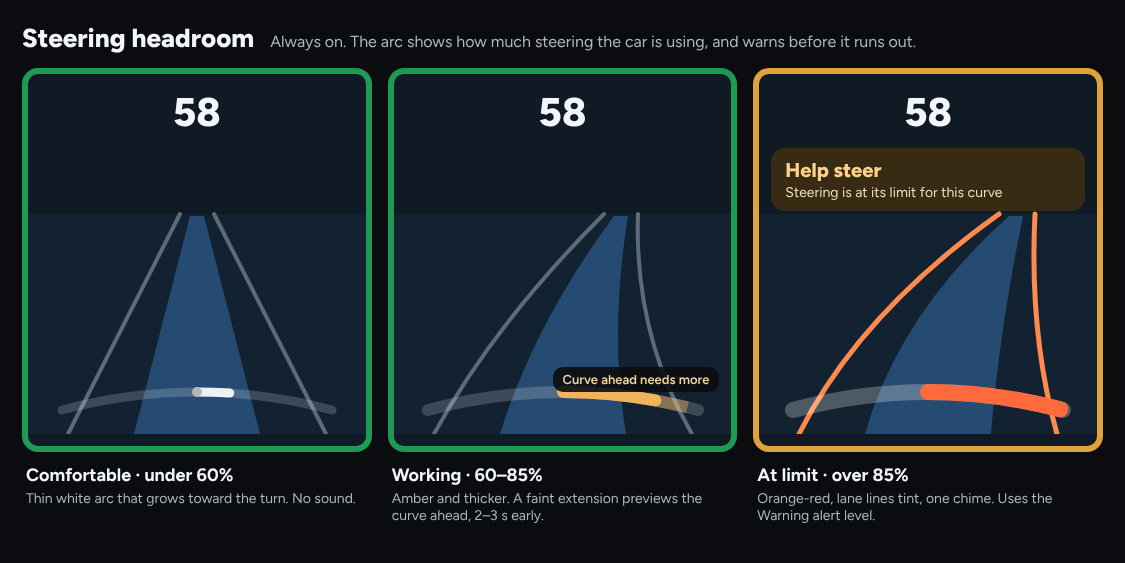
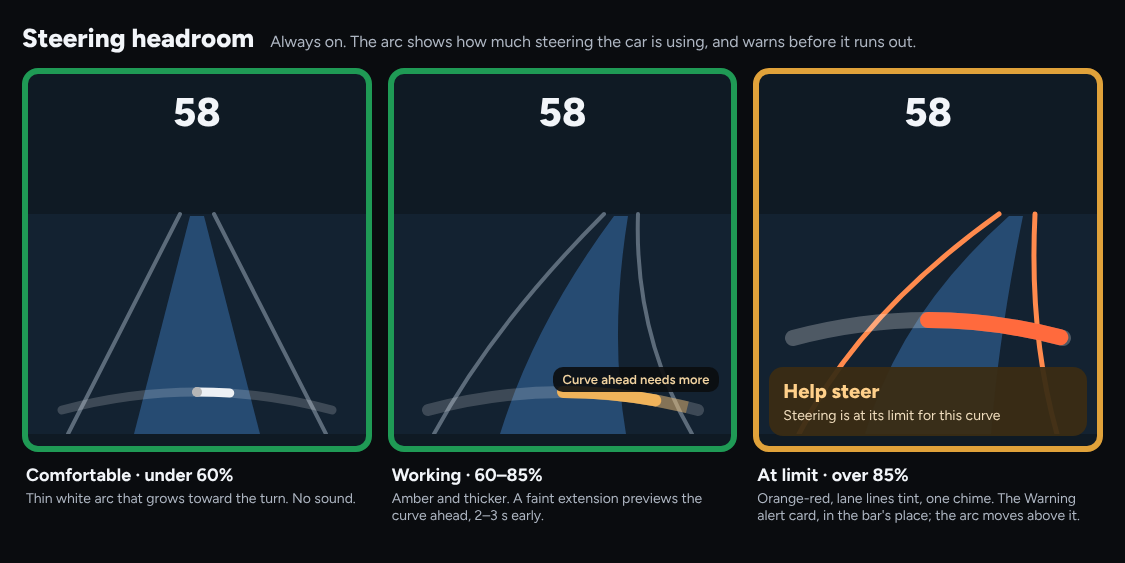
Help steer: the bottom Warning alert card, like every other alert
Help steer drew as its own banner near the top, while StarPilot's alerts
take the bar's place at the bottom. It now draws with the same Warning
card and box, the bar and chips hide under it as for other alerts, and
the headroom arc moves above the card so it stays visible. Mock first:
steeringheadroom.html's at-limit panel.

Claude-Session: https://claude.ai/code/session_01R4pPc2hcx88Dbjjec1p8WC

Changed region(s): [[0.6844, 0.5435, 0.9644, 0.7851], [0.6844, 0.2416, 0.9644, 0.3925], [0.6533, 0.8757, 0.9644, 0.9361]]

diff --git a/selfdrive/ui/tandem/design/steeringheadroom.html b/selfdrive/ui/tandem/design/steeringheadroom.html
@@ -64,18 +64,18 @@ a{color:#7DBBF9}a:hover{color:#A9D3FB}
           <path d="M240 140 Q100 240 40 360" stroke="#FF8A4D" stroke-width="5" fill="none" stroke-linecap="round"></path>
           <path d="M276 140 Q270 260 298 360" stroke="#FF8A4D" stroke-width="5" fill="none" stroke-linecap="round"></path>
           <path d="M250 142 L264 142 Q240 260 232 360 L106 360 Q140 240 250 142 Z" fill="#3A73B3" fill-opacity="0.5"></path>
-          <path d="M34 336 Q169 300 304 336" stroke="#FFFFFF" stroke-opacity="0.25" stroke-width="16" fill="none" stroke-linecap="round"></path>
-          <path d="M34 336 Q169 300 304 336" pathLength="100" stroke="#FF6A3D" stroke-width="16" fill="none" stroke-linecap="round" stroke-dasharray="49 200" stroke-dashoffset="-50"></path>
+          <path d="M34 264 Q169 228 304 264" stroke="#FFFFFF" stroke-opacity="0.25" stroke-width="16" fill="none" stroke-linecap="round"></path>
+          <path d="M34 264 Q169 228 304 264" pathLength="100" stroke="#FF6A3D" stroke-width="16" fill="none" stroke-linecap="round" stroke-dasharray="49 200" stroke-dashoffset="-50"></path>
         </svg>
         <div style="position: absolute; left: 50%; top: 14px; transform: translateX(-50%); font-size: 40px; font-weight: 800;">58</div>
-        <div style="position: absolute; left: 12px; right: 12px; top: 74px; background: #3A2C14F2; border-radius: 14px; padding: 10px 14px; display: flex; flex-direction: column; gap: 2px;">
+        <div style="position: absolute; left: 10px; right: 10px; bottom: 10px; background: #3A2C14F2; border-radius: 14px; padding: 12px 14px; display: flex; flex-direction: column; gap: 4px;">
           <span style="font-size: 20px; font-weight: 800; color: #FFD08A;">Help steer</span>
           <span style="font-size: 14px; color: #F0DDBD;">Steering is at its limit for this curve</span>
         </div>
       </div>
       <div style="display: flex; flex-direction: column; gap: 4px; padding: 0 4px;">
         <span style="font-size: 18px; font-weight: 700;">At limit · over 85%</span>
-        <span style="font-size: 14px; color: #AEB6C2;">Orange-red, lane lines tint, one chime. Uses the Warning alert level.</span>
+        <span style="font-size: 14px; color: #AEB6C2;">Orange-red, lane lines tint, one chime. The Warning alert card, in the bar's place; the arc moves above it.</span>
       </div>
     </div>
   </div>

diff --git a/selfdrive/ui/tandem/onroad/layers.py b/selfdrive/ui/tandem/onroad/layers.py
@@ -15,6 +15,7 @@ from openpilot.selfdrive.ui.tandem import draw, tokens as T
 from openpilot.selfdrive.ui.tandem.base import Component
 from openpilot.selfdrive.ui.tandem.controls import Button, ButtonStyle
 from openpilot.selfdrive.ui.tandem.layout import FILL, Align, column, inset, place, row
+from openpilot.selfdrive.ui.tandem.onroad import alerts
 from openpilot.selfdrive.ui.tandem.onroad.status import Chip, ChipTone, turn_icon
 
 BAR_HEIGHT = T.px(74)
@@ -256,15 +257,22 @@ class HeadroomArc(Component):
   """The arc above the bar. A faint track, the current use toward the turn, and a lighter preview of the curve ahead."""
   grow_touch_target = False
 
-  def __init__(self, state: Callable[[], ArcState], shape: Callable[[], ArcShape] = lambda: ARC):
+  ABOVE_CARD = T.px(23)   # the gap the mock leaves between the arc's ends and the bar, kept above the Help steer card
+
+  def __init__(self, state: Callable[[], ArcState], shape: Callable[[], ArcShape] = lambda: ARC,
+               help_steer: Callable[[], bool] = lambda: False):
+    """help_steer: whether the Help steer card is up, in the bar's place; the arc then sits above the card."""
     super().__init__()
     self._state = state
     self._shape = shape
+    self._help_steer = help_steer
 
   def _render(self, rect: rl.Rectangle):
     s, shape = self._state(), self._shape()
     half = rect.width * shape.chord / 2
     cx, end_y = rect.x + rect.width / 2, rect.y + rect.height - T.px(shape.lift)   # rect is the whole road view
+    if self._help_steer():
+      end_y = min(end_y, help_steer_box(rect).y - self.ABOVE_CARD)
     rise = rect.width * shape.rise
 
     def at(t: float) -> rl.Vector2:
@@ -291,16 +299,20 @@ class HeadroomArc(Component):
       rl.draw_circle_v(at(0.5), T.px(5), draw.alpha(T.TEXT, 0.8 * alpha))
 
 
+HELP_STEER = ("Help steer", "Steering is at its limit for this curve")
+
+
+def help_steer_box(rect: rl.Rectangle) -> rl.Rectangle:
+  return alerts.box(rect, alerts.WARNING, *HELP_STEER)
+
+
 class HelpSteer(Component):
-  """The at-limit banner; the view requests its one-shot warning through soundd."""
+  """The at-limit warning, drawn as every other Warning alert is: the amber card along the bottom, in the bar's place (the
+  view hides the bar and chips while it shows, as for other alerts). The view requests its one-shot sound through soundd."""
   grow_touch_target = False
 
   def _render(self, rect: rl.Rectangle):
-    box = place(rl.Rectangle(rect.x, rect.y + T.px(130), rect.width, T.px(84)), T.px(340), T.px(84))
-    draw.fill(box, draw.alpha(T.WARNING_SURFACE, 0.92), T.px(16))
-    title, line = column(place(inset(box, x=T.px(22)), box.width - T.px(44), T.px(58)), [T.px(32), FILL])
-    draw.text(title, "Help steer", T.font_px(22), T.WARNING_TITLE, T.FONT_EXTRABOLD)
-    draw.text(line, "Steering is at its limit for this curve", T.font_px(15), T.TEXT_SECONDARY)
+    alerts.draw_alert(help_steer_box(rect), alerts.WARNING, *HELP_STEER, 1.0)
 
 
 # ── New speed limit ──

diff --git a/selfdrive/ui/tandem/onroad/view.py b/selfdrive/ui/tandem/onroad/view.py
@@ -161,7 +161,8 @@ class EssentialsOnroadView(StarPilotOnroadView):
     self._limit_offer = LimitOfferState()
     self._bar = OnroadBar(self._bar_state, self._open_menu, self._step_speed, self._toggle_engaged, self._end_route)
     self._chip_view = StatusChip(lambda: self._chip_list)
-    self._arc = HeadroomArc(lambda: self._arc_state, lambda: DEV_ARC if self._dev is not None else ARC)   # each mock's curve
+    self._arc = HeadroomArc(lambda: self._arc_state, lambda: DEV_ARC if self._dev is not None else ARC,   # each mock's curve
+                            lambda: self._headroom_warning)
     self._help = HelpSteer()
     self._limit = LimitCard(self._offer, self._match_limit, self._ignore_limit)   # in the sign's place, top left
     # StarPilot's HUD keeps deciding when the speed and turn card show; they're drawn in the Essentials style.
@@ -397,9 +398,11 @@ class EssentialsOnroadView(StarPilotOnroadView):
   def _render_layers(self) -> None:
     self._offer()   # observe limit changes even when an alert is covering the card
     alert, _ = self.alert_renderer.will_render()
-    self._layers_visible = bool(ui_state.started and self._draw_hud_controls and alert is None)
+    # Help steer is a Warning alert drawn by us: like StarPilot's alerts, it takes the bar's place at the bottom.
+    self._layers_visible = bool(ui_state.started and self._draw_hud_controls and alert is None and not self._headroom_warning)
     now = time.monotonic()
-    self._chip_list = self._chips.update(snapshot(ui_state, self._navigating(), self._limits, now), now, alert is not None)
+    self._chip_list = self._chips.update(snapshot(ui_state, self._navigating(), self._limits, now), now,
+                                         alert is not None or self._headroom_warning)
     if not self._layers_visible:
       return
     c = self._content_rect

diff --git a/selfdrive/ui/tandem/tests/test_tandem.py b/selfdrive/ui/tandem/tests/test_tandem.py
@@ -370,3 +370,16 @@ def test_lane_change_blocked_follows_the_blindspot_banner_it_replaces():
   assert chip_for(Snapshot(events={"laneChangeBlockedLoud"})).label == "Lane change blocked"   # also without steering
   assert chip_for(Snapshot(lane_change="pre", blindspot=True)).label == "Lane change blocked"
 
+
+def test_help_steer_is_a_bottom_warning_card_with_the_arc_above_it():
+  import pyray as rl
+  from openpilot.selfdrive.ui.tandem.onroad import alerts
+  from openpilot.selfdrive.ui.tandem.onroad.layers import BAR_HEIGHT, BAR_MARGIN, HELP_STEER, HeadroomArc, help_steer_box
+  road = rl.Rectangle(0, 0, 2130, 1050)
+  card = help_steer_box(road)
+  same = alerts.box(road, alerts.WARNING, *HELP_STEER)                               # the same box as StarPilot's warnings
+  assert (card.x, card.y, card.width, card.height) == (same.x, same.y, same.width, same.height)
+  assert abs(card.y + card.height - (road.y + road.height - alerts.MARGIN)) < 0.01      # along the bottom
+  assert card.y <= road.y + road.height - BAR_MARGIN - BAR_HEIGHT                     # covering the bar's row
+  assert HeadroomArc.ABOVE_CARD > 0                                                   # the arc's ends sit above it
+

diff --git a/selfdrive/ui/tandem/README.md b/selfdrive/ui/tandem/README.md
@@ -164,7 +164,7 @@ These are reached from a row or button, never as a tab:
     - The slowdown chip and navigation card share maneuver icons. The chip uses the turn that actually set the speed target (including a next turn), with a neutral map icon if the direction is unknown. Paused-steering chevrons follow the signal side, with a hazard symbol for both signals. Weather chips use rain, snow or fog icons to match the condition.
     - Lane-change and turn progress always use chips. Display's Driving Style Banner switch only controls the personality message when the style changes (off by default), using the existing saved preference. There is no Clean Screen bundle in Tuner Mode.
   - **Steering headroom arc:** replaces the torque bar and uses its estimate. It has three stages (under 60%, 60–85%, over 85% held for 0.5 s) and a faint preview of what the path needs 2.5 s ahead.
-    - At limit, the lane lines turn orange, the border turns amber, and Help steer plays one soft warning chime through soundd. It uses the warning volume and steering-limit mute-speed settings. The warning clears below 80%, or when steering becomes inactive; existing alerts take priority. The small release margin prevents repeated chimes around 85%.
+    - At limit, the lane lines turn orange, the border turns amber, and Help steer plays one soft warning chime through soundd. Help steer is drawn as a Warning alert card in the bar's place (the bar and chips hide, as for other alerts), with the arc above it. It uses the warning volume and steering-limit mute-speed settings. The warning clears below 80%, or when steering becomes inactive; existing alerts take priority. The small release margin prevents repeated chimes around 85%.
   - **New-limit card:** asks before matching a higher limit. Match sends StarPilot's `SpeedLimitAccepted`. Ignore suppresses consecutive offers for that same limit, including after an offer expires or its source briefly disappears. An intervening higher or lower posted limit, or a new drive, allows it again.
   - **Speed, sign and turn card:** StarPilot still decides when each shows (its HUD's speed with the hide-speed rule, its speed card's posted limit, its turn card's route data); they're drawn as in the mocks. The sign stays top left, with the turn card popping up below it while navigating; while the new-limit card asks it takes the sign's place, and the turn card stays below it. The compass above the speed isn't drawn.
   - **Turn signal:** two green chevrons in the speed pill on the signalling side, the brighter one stepping outward. It replaces StarPilot's signal animations, so Display has no animation picker.

diff --git a/selfdrive/ui/tandem/design/README.md b/selfdrive/ui/tandem/design/README.md
@@ -135,7 +135,7 @@ This builds on the existing torque bar in `selfdrive/ui/onroad/starpilot/torque_
 - **Three stages instead of a gradual fade:**
   - **Comfortable (under 60%):** a thin white arc and no sound.
   - **Working (60–85%):** the arc turns amber and gets thicker.
-  - **At limit (over 85%, held for about half a second):** the arc turns orange-red, the lane lines tint, and the Warning alert "Help steer" plays one chime.
+  - **At limit (over 85%, held for about half a second):** the arc turns orange-red, the lane lines tint, and the Warning alert "Help steer" plays one chime. It draws like every other Warning alert, the amber card along the bottom in the bar's place, with the arc moved above it.
     The border turns amber. The warning clears below 80% to avoid repeated chimes near the threshold, and clears whenever steering becomes inactive. Existing driving alerts take priority.
 - **Preview of the curve ahead.** A faint extension of the arc shows the steering the planned path will need 2–3 seconds out, based on the model's desired curvature at the current speed. The driver sees trouble before the car reaches it.
 - The arc sits on the road view just above the onroad bar, where the driver is already looking. It replaces the flat "STEERING" bar from the earlier mocks.
